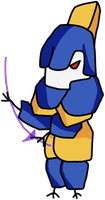
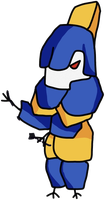
⚔ 해골장수 — 보라색 화살표는 검기 표현, 검기를 쓸 때만 보이게 (설정: 구예준)
Claude-Session: https://claude.ai/code/session_0154SZmUKpk3PfpneAGffqWr

Changed region(s): [[0.0857, 0.48, 0.4857, 0.75], [0.0286, 0.27, 0.0857, 0.48]]

diff --git a/new-game/index.html b/new-game/index.html
@@ -433,10 +433,14 @@ const FOES = [
   { id: 'slime', name: '슬라임',   img: 'art/enemy-slime.png', hp: 1.0, speed: 8, r: 9.5, w: 2, dodge: 0.15 },  // 가끔 점프로 공격을 피함
 ];
 const BOSSES = [
-  { id: 'skullgen', name: '해골장수', img: 'art/boss-skullgen.png', hp: 4, speed: 10, r: 20, skill: 'gumgi' },  // 검기: 아군 공격력 10초간 ½
+  { id: 'skullgen', name: '해골장수', img: 'art/boss-skullgen.png', skillImg: 'art/boss-skullgen-gumgi.png', hp: 4, speed: 10, r: 20, skill: 'gumgi' },
+  // ↑ 검기: 아군 공격력 10초간 ½ · 검기를 쓸 때만 보라색 검기가 있는 그림으로 바뀌어요
 ];
 const FOE_IMG = {};
-FOES.concat(BOSSES).forEach((f) => { const im = new Image(); im.src = f.img; FOE_IMG[f.id] = im; });
+FOES.concat(BOSSES).forEach((f) => {
+  const im = new Image(); im.src = f.img; FOE_IMG[f.id] = im;
+  if (f.skillImg) { const sk = new Image(); sk.src = f.skillImg; FOE_IMG[f.id + ':skill'] = sk; }
+});
 const IMGS = {};
 CHARS.forEach((c) => { if (c.img) { const im = new Image(); im.src = c.img; IMGS[c.id] = im; } });
 const imgReady = (id) => { const im = IMGS[id]; return im && im.complete && im.naturalWidth > 0 ? im : null; };
@@ -504,7 +508,7 @@ function makeEnemy(boss) {
   return {
     x: r + Math.random() * (W - 2 * r), y: -r - Math.random() * 8, r, hp, maxHp: hp, foe: f,
     sp: f.speed * SPEED_UNIT(w) * (boss ? 1 : 0.85 + Math.random() * 0.3),
-    slowT: 0, slowF: 0, stunT: 0, burnT: 0, burnDps: 0, flash: 0, jumpT: 0, jumpCd: 0, skillT: 6 + Math.random() * 3,
+    slowT: 0, slowF: 0, stunT: 0, burnT: 0, burnDps: 0, flash: 0, jumpT: 0, jumpCd: 0, castT: 0, skillT: 6 + Math.random() * 3,
     boss, weight: boss ? BAL.bossWeight : 1, dead: false,
     wob: Math.random() * 6.28, tier: Math.floor((w - 1) / 5) % TIERS.length,
   };
@@ -647,10 +651,11 @@ function update(dt) {
     if (e.dead) continue;
     if (e.flash > 0) e.flash -= dt;
     if (e.jumpT > 0) e.jumpT -= dt; else if (e.jumpCd > 0) e.jumpCd -= dt;
+    if (e.castT > 0) e.castT -= dt;
     if (e.foe.skill === 'gumgi' && e.y > 0) {
       e.skillT -= dt;
       if (e.skillT <= 0) {                                 // 해골장수의 검기
-        e.skillT = 8 + Math.random() * 4; S.weakT = 10;
+        e.skillT = 8 + Math.random() * 4; S.weakT = 10; e.castT = 0.9;
         fx({ k: 'gumgi', x: e.x, y: e.y, life: 0.7 });
         fx({ k: 'text', x: e.x, y: e.y - 34, s: '검기!', c: '#9B5DE5', life: 1.2, size: 18 });
       }
@@ -906,7 +911,8 @@ function drawFoeSprite(e, im) {
   }
 }
 function drawEnemy(e) {
-  const im = FOE_IMG[e.foe.id];
+  const sk = e.castT > 0 && FOE_IMG[e.foe.id + ':skill'];
+  const im = sk && sk.complete && sk.naturalWidth ? sk : FOE_IMG[e.foe.id];
   if (im && im.complete && im.naturalWidth) { drawFoeSprite(e, im); return; }
   const c = ctx, wob = Math.sin(S.time * 9 + e.wob);
   c.save(); c.translate(e.x, e.y);

diff --git a/new-game/README.md b/new-game/README.md
@@ -42,7 +42,8 @@
 
 - 이속 8 = 보통 잡몹 속도 (Claude가 정한 기준, 해골장수 10은 그보다 1.25배 빠름)
 - 잡몹 비율: 졸라검객 4 · 해골잡졸 4 · 슬라임 2
-- 해골장수 그림의 보라색 화살표는 그림 그대로 둠
+- 해골장수 그림의 보라색 화살표 = **검기 표현** (예준이 설명). 평소엔 보라색을 지운 그림(`art/boss-skullgen.png`), 검기를 쓸 때만 원래 그림(`art/boss-skullgen-gumgi.png`)
+- 다른 보스는 예준이가 만드는 중
 
 ## 예준이 캐릭터
 
